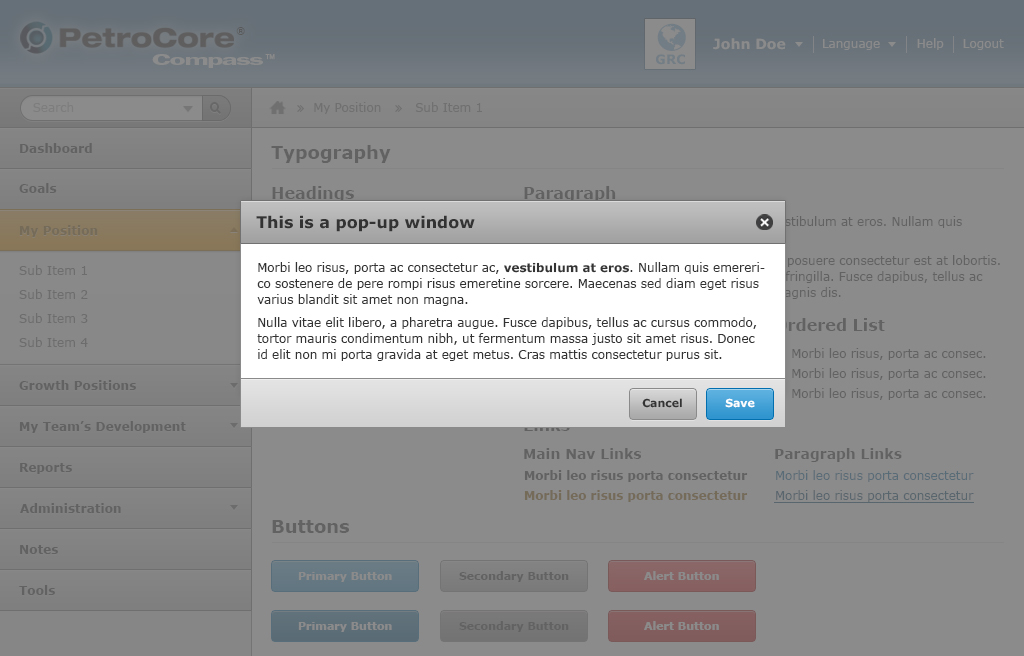
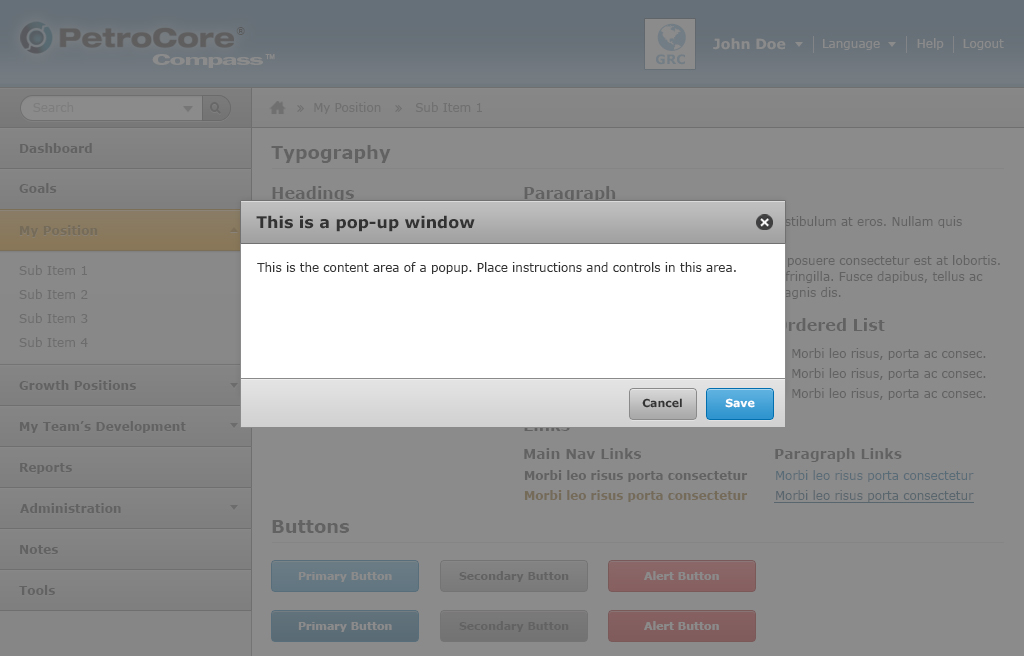
Replace placeholder text. Add Pagination section.

Changed region(s): [[0.25, 0.3963, 0.75, 0.5488]]

diff --git a/search-results.html b/search-results.html
@@ -92,6 +92,15 @@
           <p>Aenean lacinia bibendum nulla sed consectetur. Praesent commodo cursus magna, vel scelerisque nisl consectetur et. Vivamus sagittis lacus vel augue laoreet rutrum faucibus dolor auctor.</p>
           <hr>
 
+          <h3>No Results</h3>
+          <p>Vivamus sagittis lacus vel augue laoreet rutrum faucibus dolor auctor.</p>
+          <img src="images/no-search-results.jpg" alt="Search" style="border: 1px solid #717171;"><br><br>
+          <hr>
+
+          <h3>Results Count</h3>
+          <p>The information inside of the highlighted red area is ... Vivamus sagittis lacus vel augue laoreet rutrum faucibus dolor auctor.</p>
+          <img src="images/search-results-count.jpg" alt="Search" style="border: 1px solid #717171;"><br><br>
+          <hr>
 
           <h3>Skill Group</h3>
           <p>Vivamus sagittis lacus vel augue laoreet rutrum faucibus dolor auctor.</p>
@@ -108,22 +117,15 @@
           <img src="images/skill-description-search-results.jpg" alt="Search" style="border: 1px solid #717171;"><br><br>
           <hr>
 
-          <h3>Person</h3>
-          <p>Vivamus sagittis lacus vel augue laoreet rutrum faucibus dolor auctor.</p>
-          <img src="images/person-search-results.jpg" alt="Search" style="border: 1px solid #717171;"><br><br>
-          <hr>
-
-          <h3>No Results</h3>
-          <p>Vivamus sagittis lacus vel augue laoreet rutrum faucibus dolor auctor.</p>
-          <img src="images/skill-search-results.jpg" alt="Search" style="border: 1px solid #717171;"><br><br>
-          <hr>
-
           <h3>Development Activity</h3>
           <p>Vivamus sagittis lacus vel augue laoreet rutrum faucibus dolor auctor.</p>
           <img src="images/development-activity-search-results.jpg" alt="Search" style="border: 1px solid #717171;"><br><br>
           <hr>
 
-
+          <h3>Person</h3>
+          <p>Vivamus sagittis lacus vel augue laoreet rutrum faucibus dolor auctor.</p>
+          <img src="images/person-search-results.jpg" alt="Search" style="border: 1px solid #717171;"><br><br>
+          <hr>
 
           <h3>Advanced Search</h3>
           <p>Vivamus sagittis lacus vel augue laoreet rutrum faucibus dolor auctor.</p>

diff --git a/navigation.html b/navigation.html
@@ -104,6 +104,11 @@
           <p>A search form that is placed above the main navigation and is used to search the entire site globally.</p>
 
           <hr>
+          <h3>Pagination</h3>
+          <p><img src="images/petrocore-interface-pagination.jpg" alt="Pagination"></p>
+          <p>Aenean lacinia bibendum nulla sed consectetur. Praesent commodo cursus magna, vel scelerisque nisl consectetur et.</p>
+
+          <hr>
           <h3>Responsive</h3>
 
           <p>When viewing the web application on a mobile device such a a tablet or smartphone, the main navigation is hidden until the user invokes it by tapping on the "Menu" button besides the Breadcrumb area. The menu acts as a hide/show functionality.</p>
